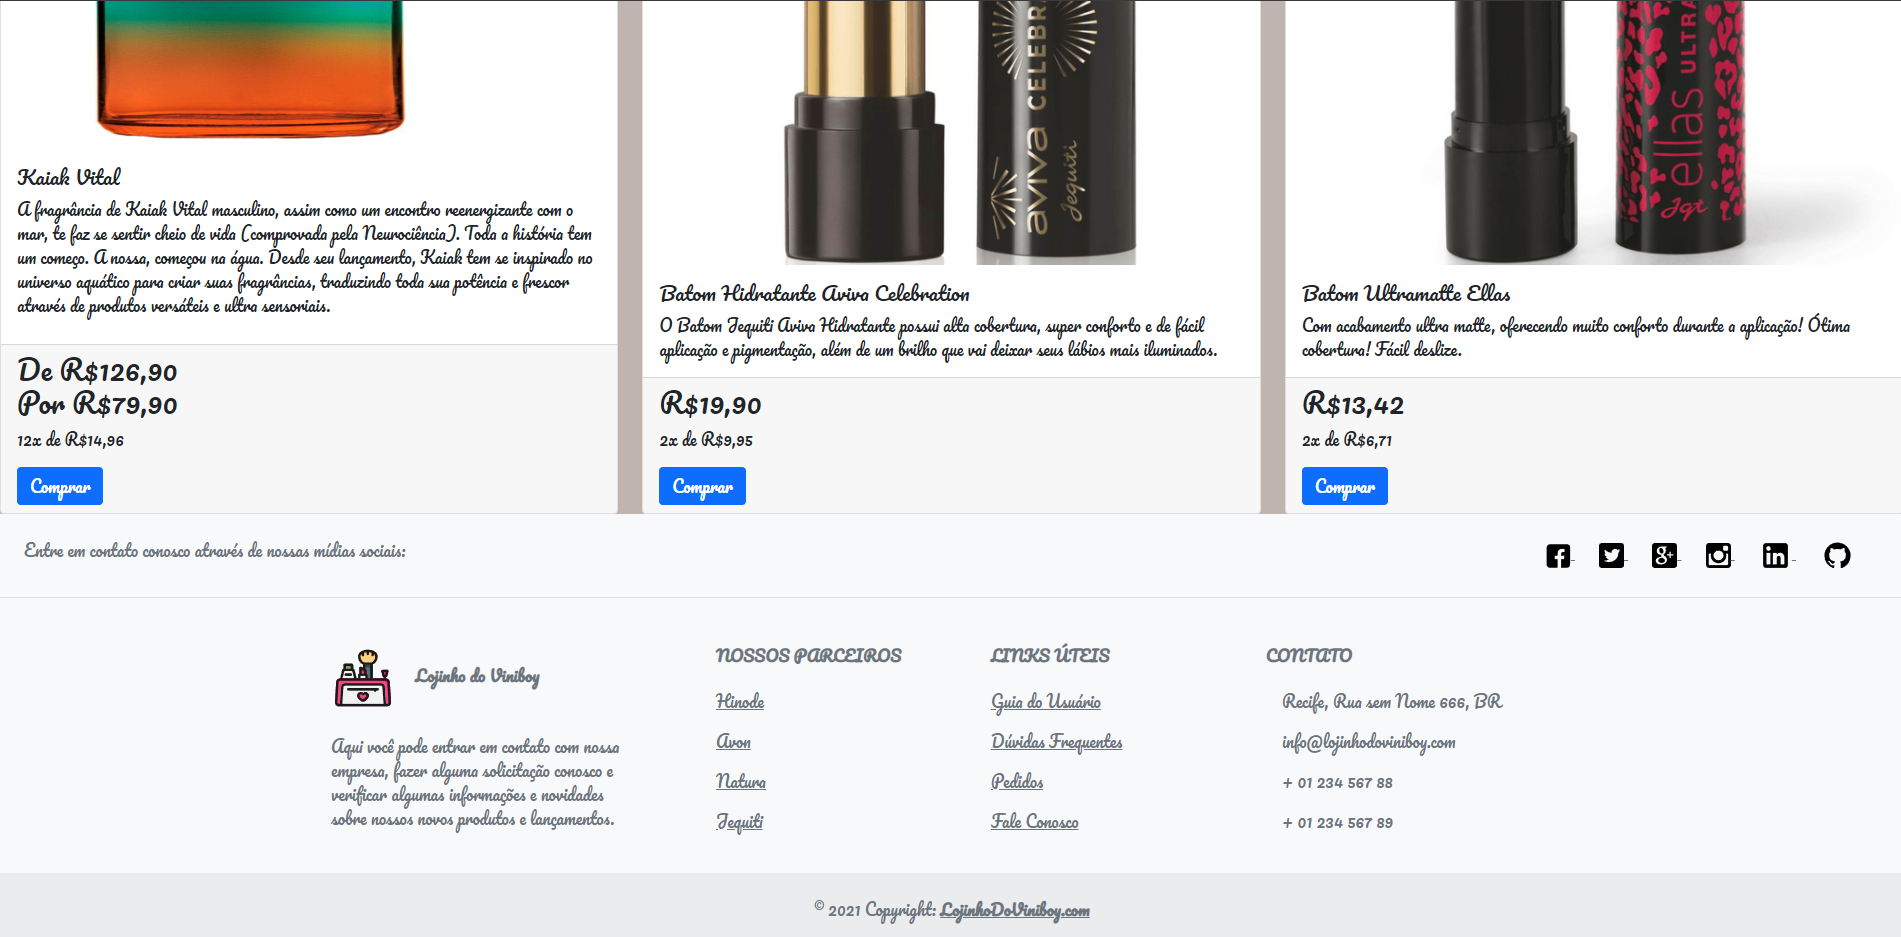
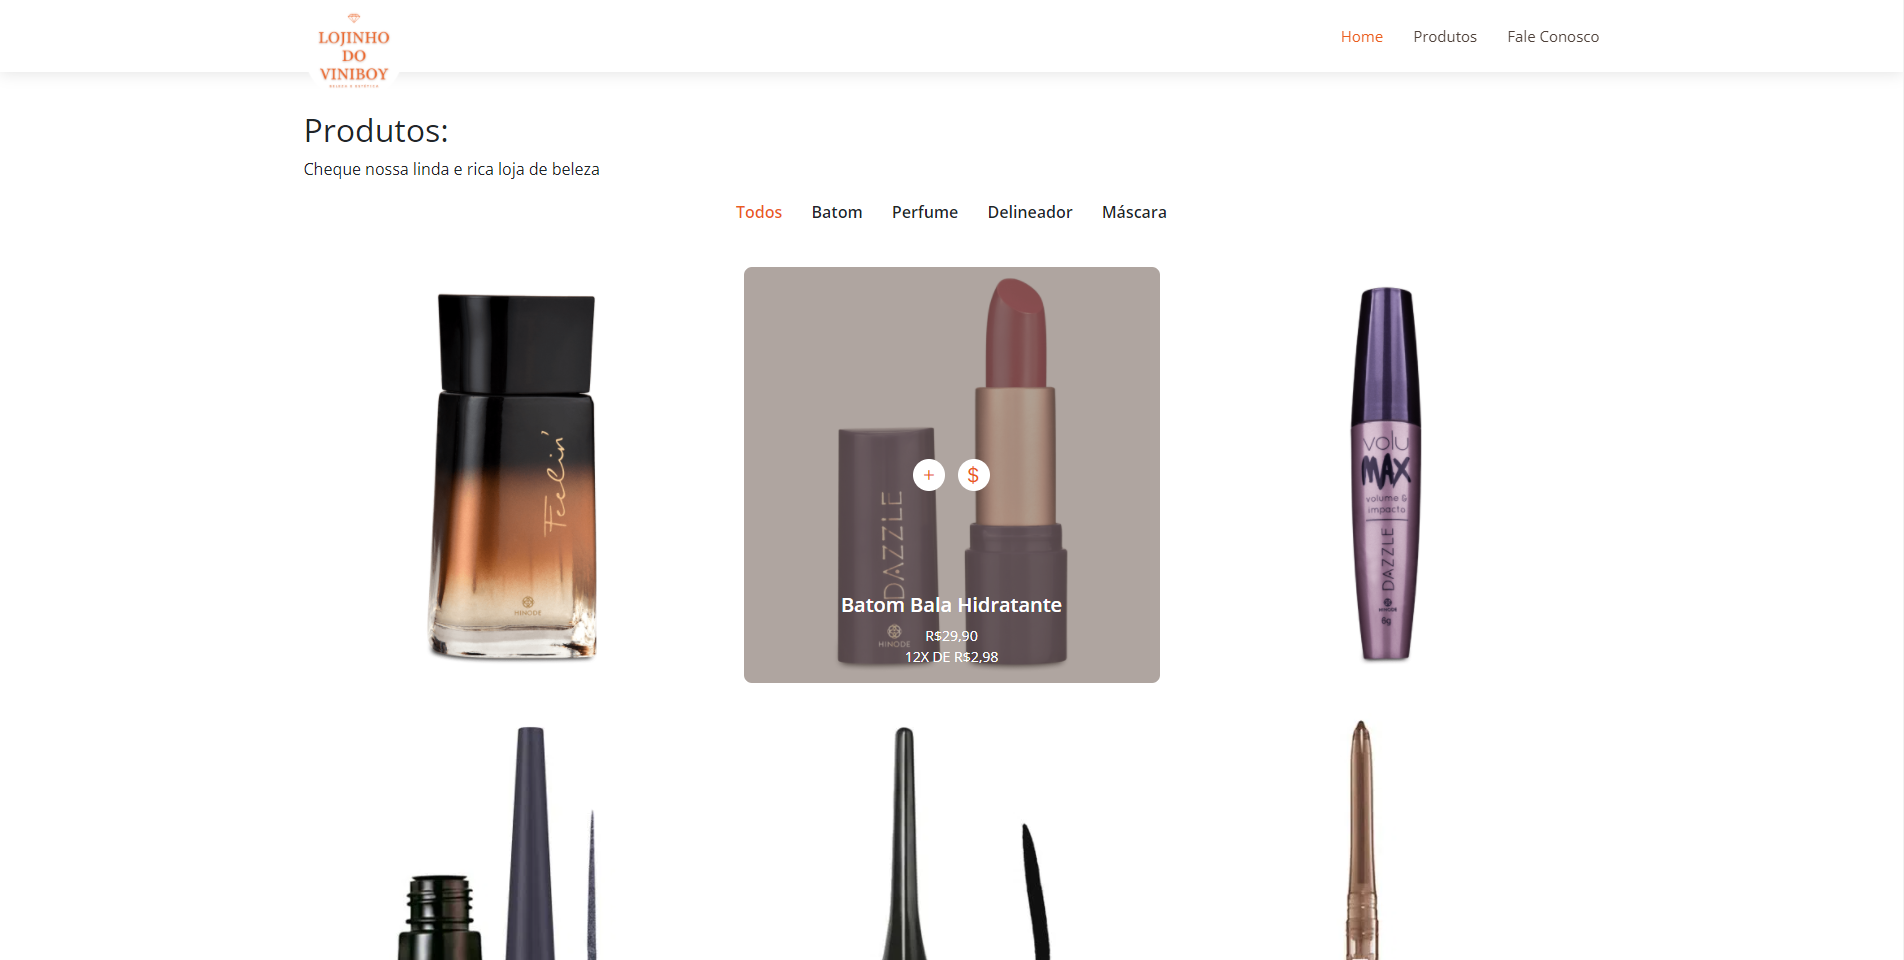
Adicionadas alterações visuais que ocorreu em um dos portfólios.
O portfólio de beleza (Lojinho do Viniboy) foi modificado inteiramente, com isso foram adicionados novos prints do projeto e um informativo da data de atualização.

diff --git a/portifolio-beleza.html b/portifolio-beleza.html
@@ -83,6 +83,13 @@
 
                                 </div>
 
+                                <div class="swiper-slide">
+                                    <a href="assets/img/portifolio/portifolio-site-beleza-4.png" data-lightbox="imagem site">
+                                        <img src="assets/img/portifolio/portifolio-site-beleza-4.png" alt="">
+                                    </a>
+
+                                </div>
+
                             </div>
                             <div class="swiper-pagination"></div>
                         </div>
@@ -95,6 +102,7 @@
                                 <li><strong>Categoria</strong>: Web</li>
                                 <li><strong>Proposta</strong>: Uso básico do Bootstrap</li>
                                 <li><strong>Data do projeto</strong>: 14 Outubro, 2021</li>
+                                <li><strong>Última atualização</strong>: 12 Dezembro, 2021</li>
                                 <li><strong>Projeto no Github</strong>: <a href="https://github.com/Vinicius-AndradeM/Site-Web-de-Compras" target="_blank">github.com/Vinicius-AndradeM/Site-Web-de-Compras</a></li>
                                 <li><strong>URL do projeto</strong>: <a href="https://lojinhodoviniboy.netlify.app/" target="_blank">lojinhodoviniboy.netlify.app</a></li>
 
@@ -105,7 +113,7 @@
                             <p>
                                 Essa loja foi feita com base nos modelos e exemplos básicos do bootstrap, com algumas pequenas modificações para melhor atender os objetivos do projeto. Uma loja de itens de beleza, onde há categorias e a venda de itens. Ao selecionar um item do catálogo
                                 você irá à uma tela de venda, onde será exibido um alert que indicará que deve entrar em contato para finalizar a compra. O objetivo do site é bem simples e foi feita a proposta dele apenas para aplicar os conhecimentos
-                                básicos em HTML5 e CSS3, bem como aplicar a nota da primeira avaliação do semestre.
+                                básicos em HTML5 e CSS3, bem como aplicar a nota da primeira avaliação do semestre. O projeto sofreu grandes atualizações para deixar ele mais bonito, responsivo e interessante para o usuário.
                             </p>
                         </div>
                     </div>
